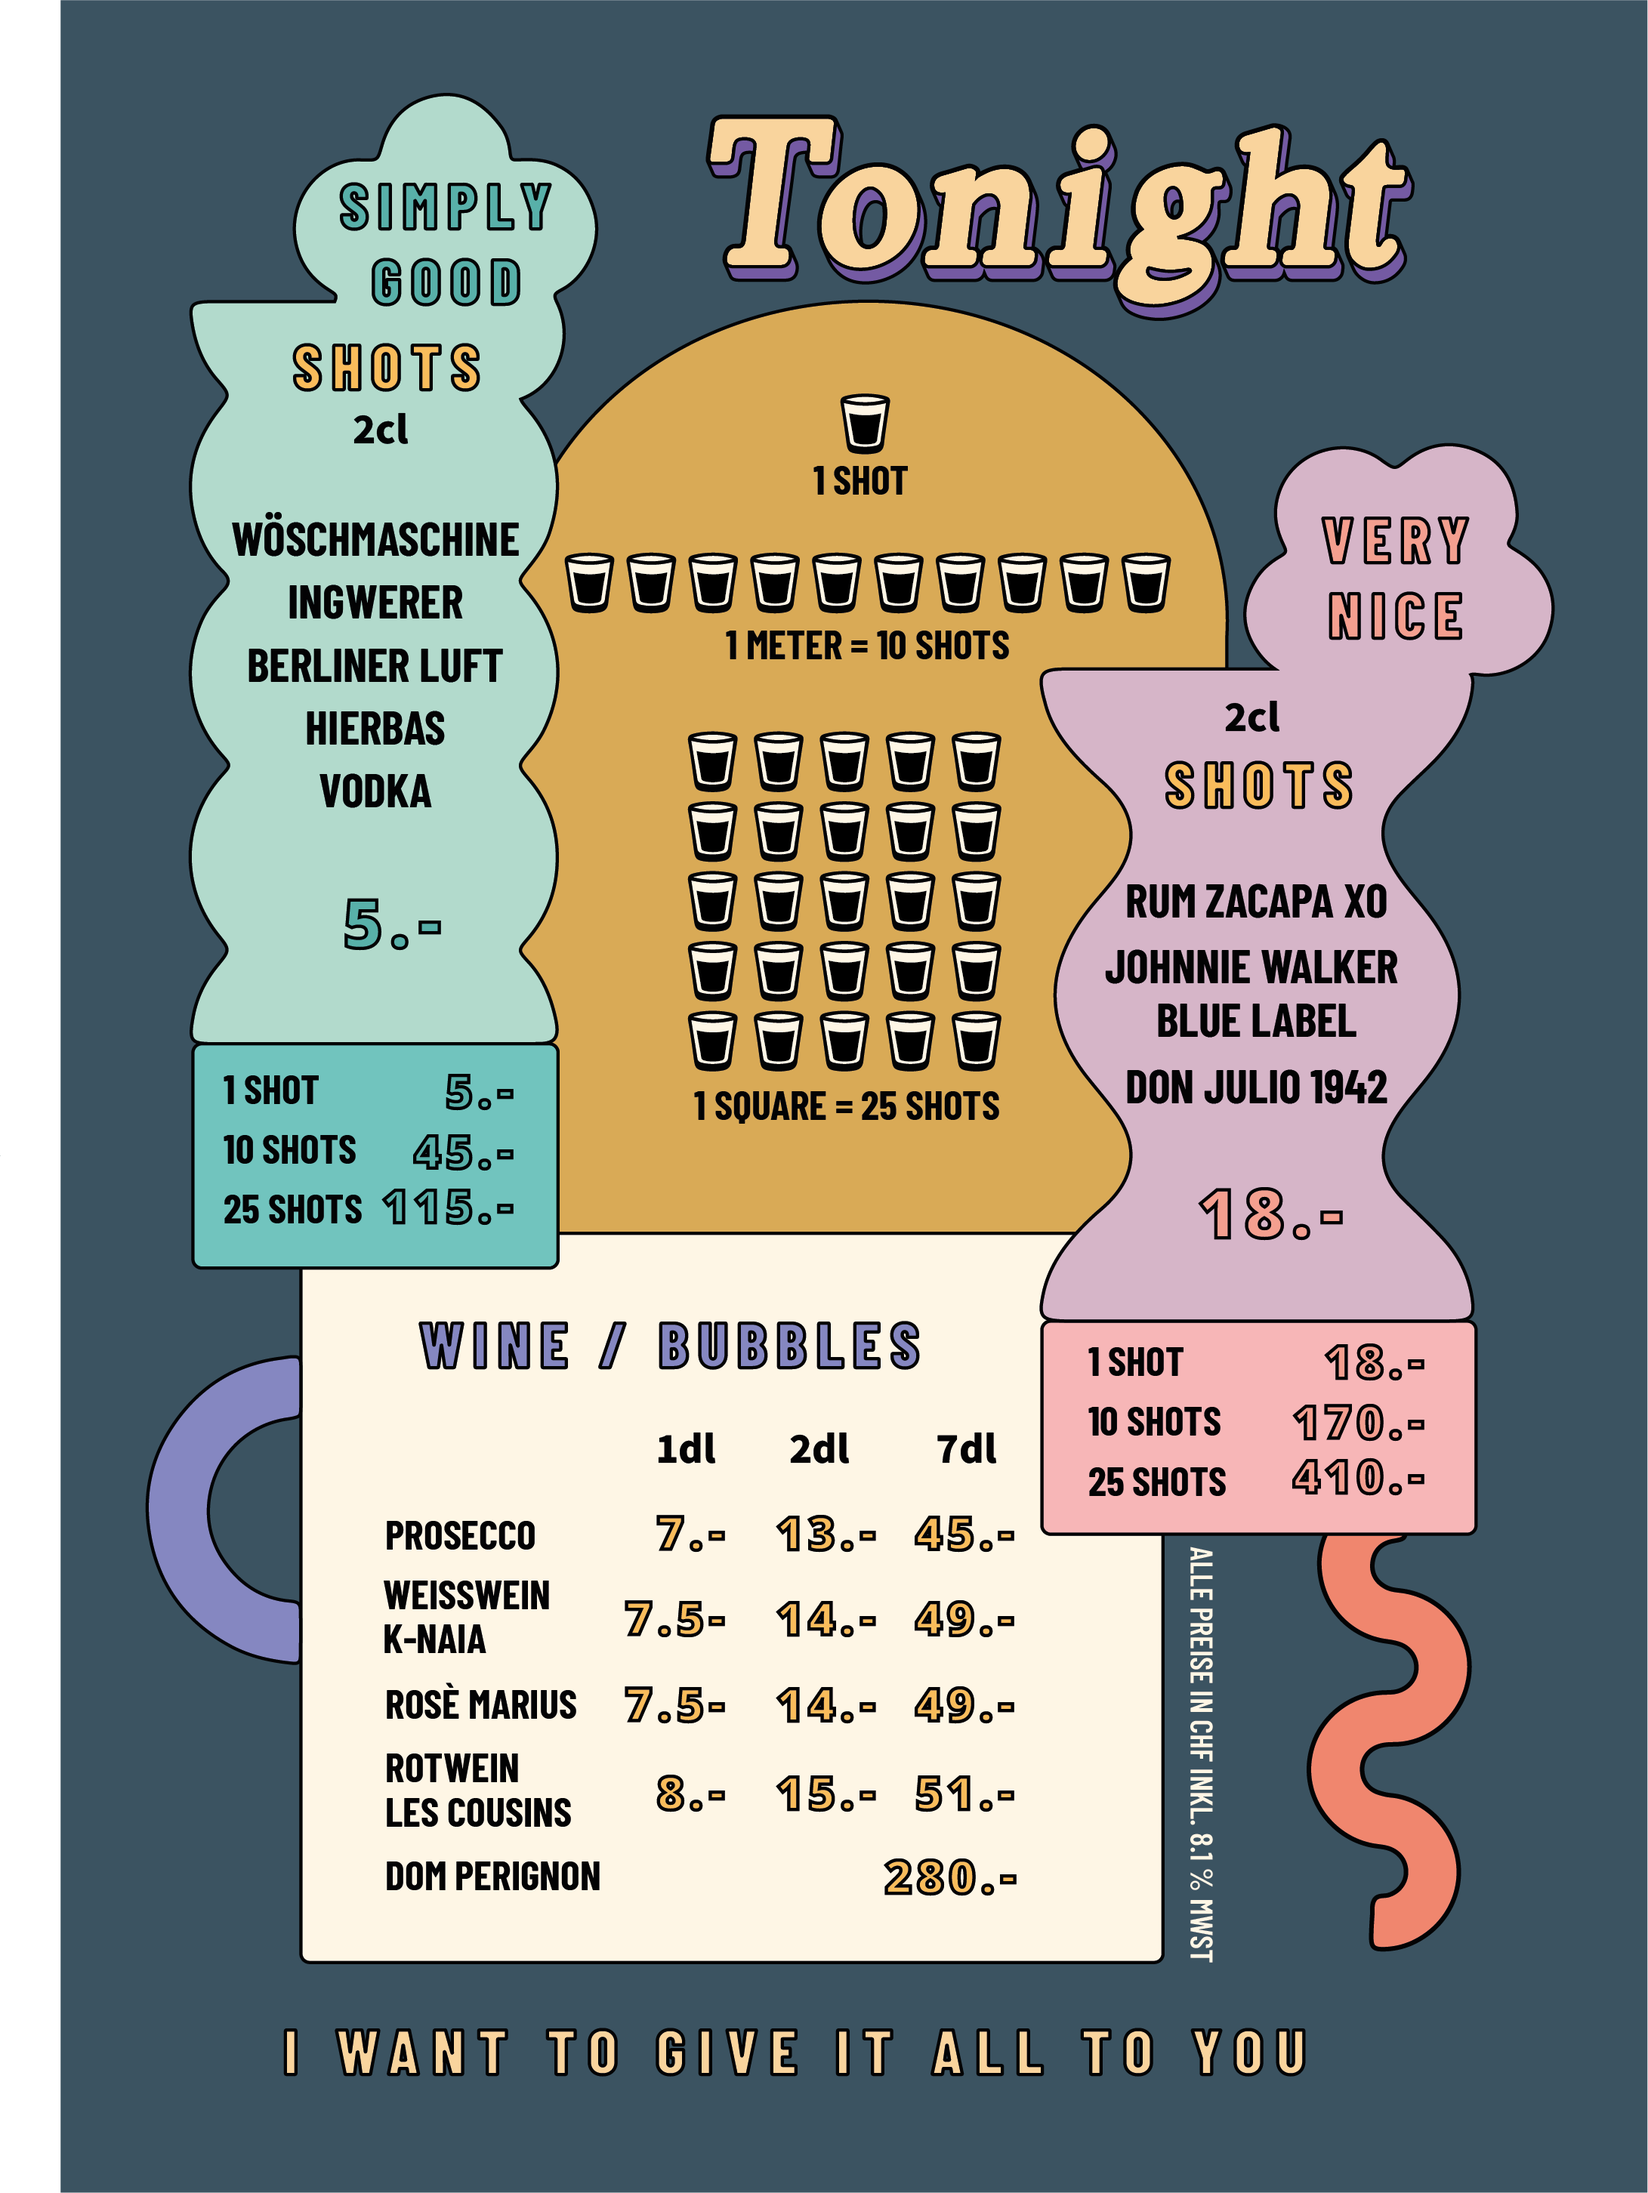
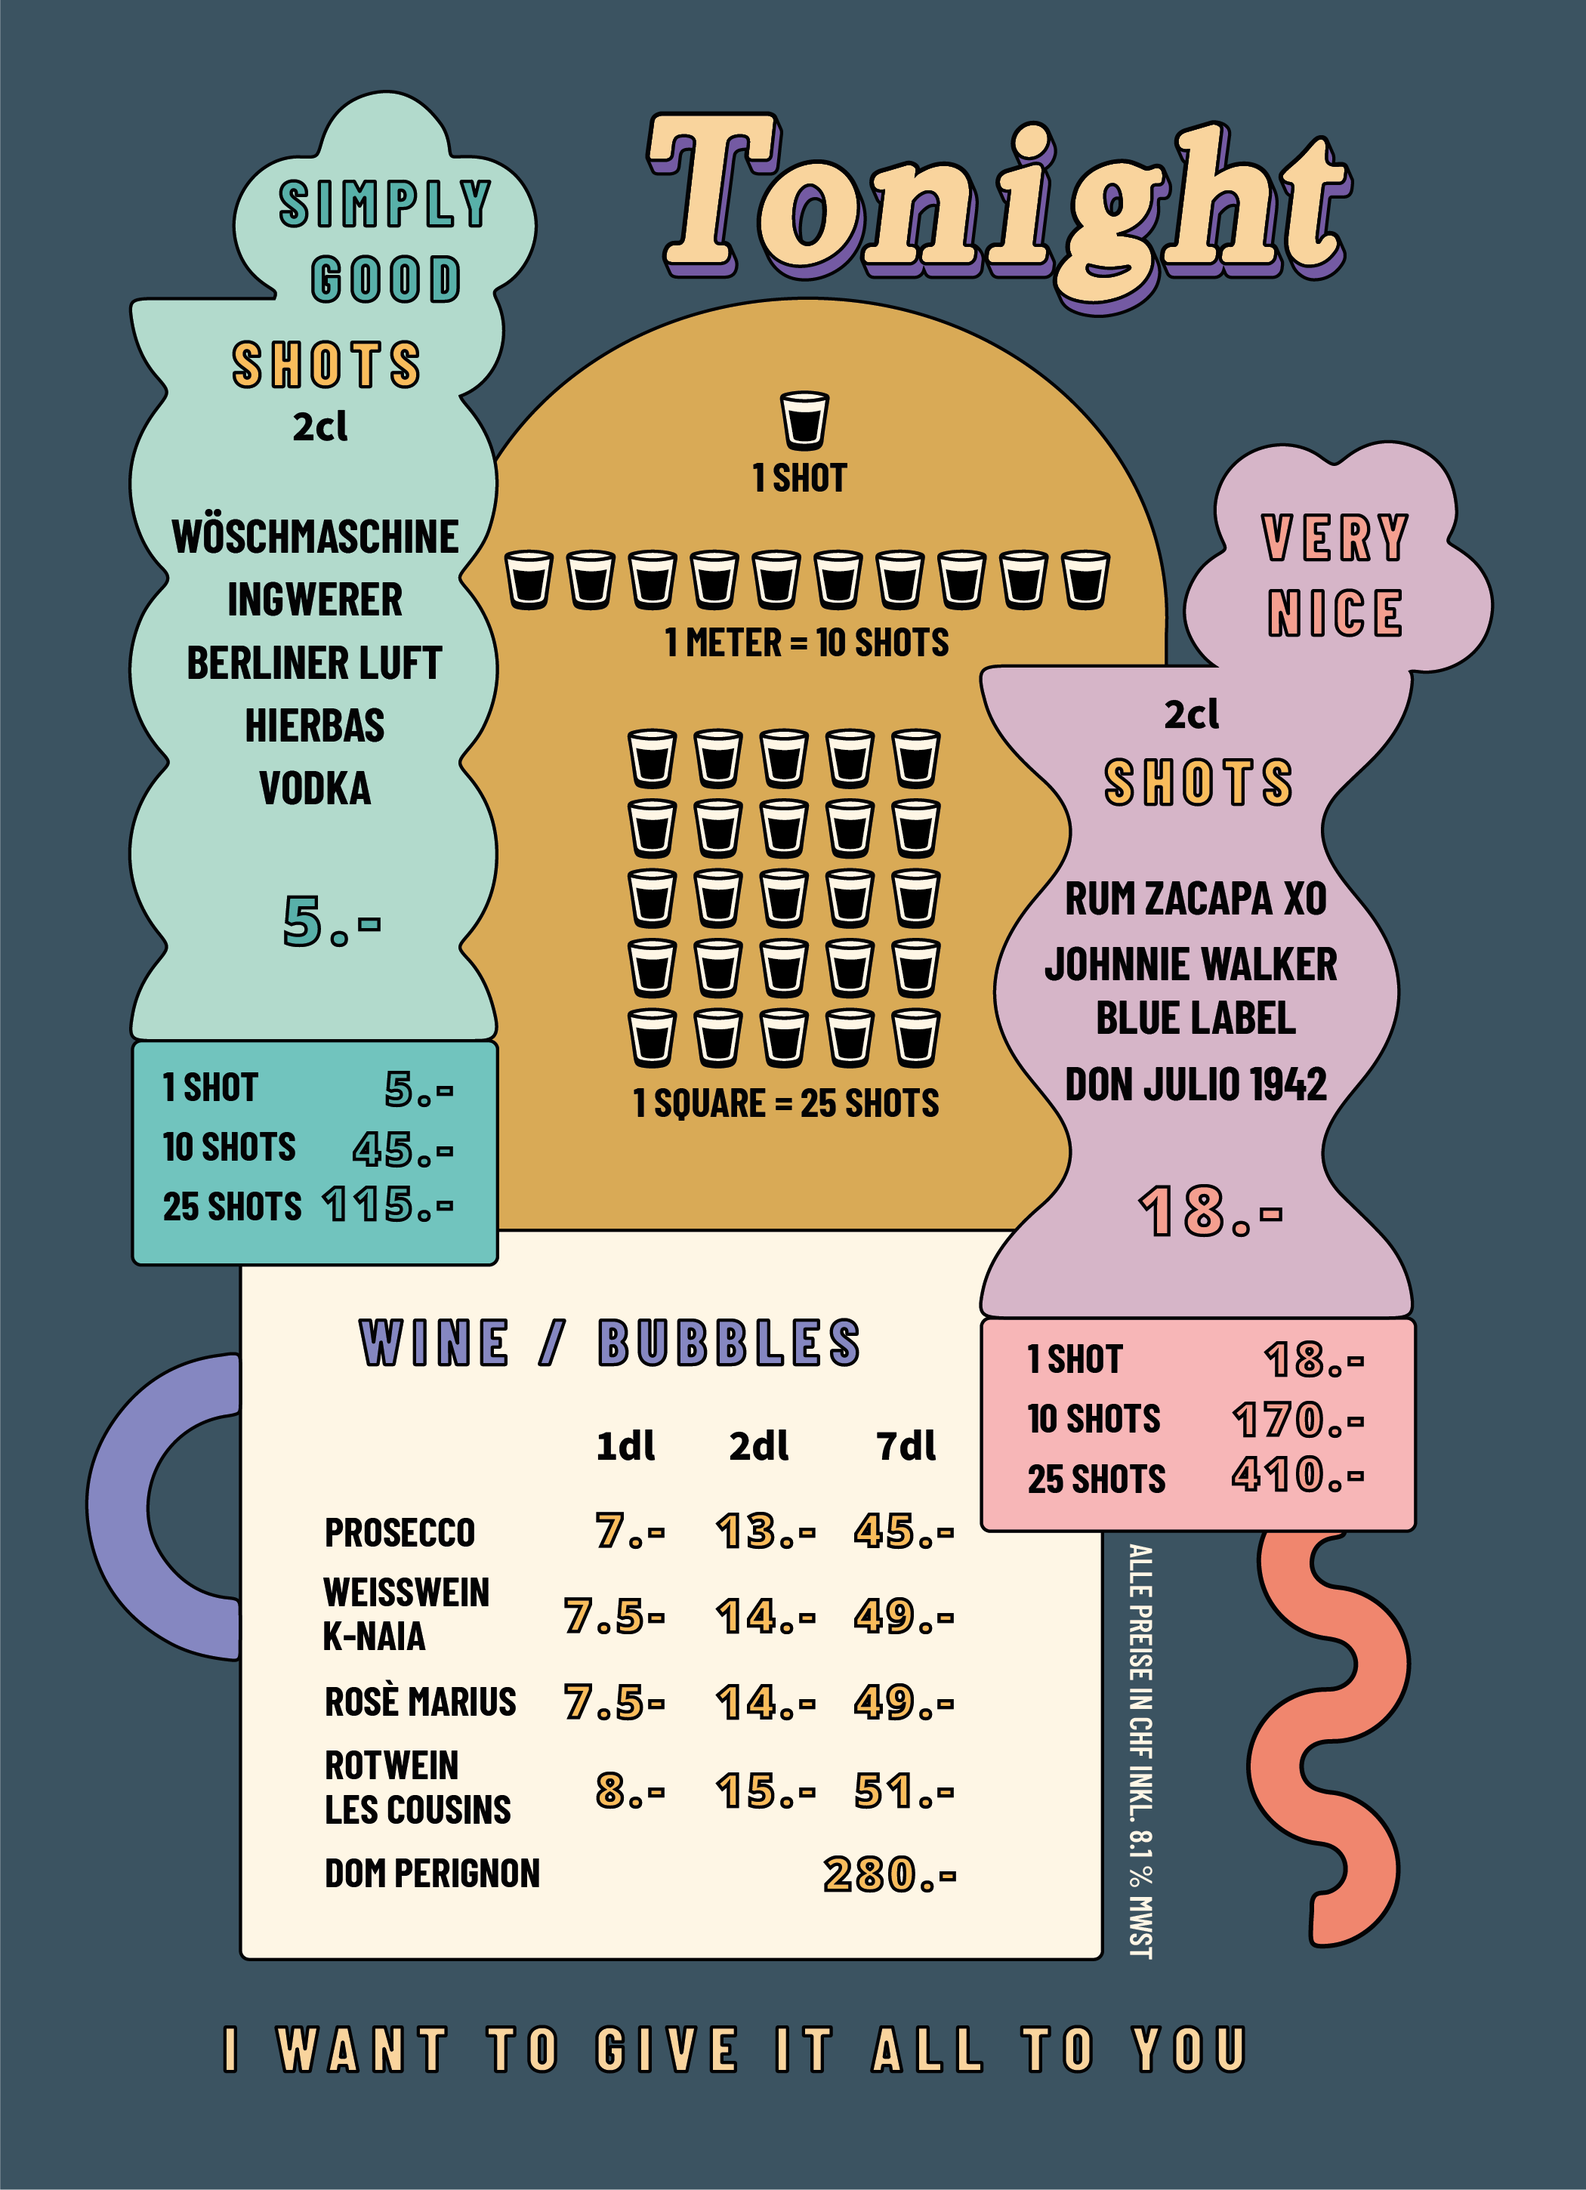
adjust menu page image sizing

diff --git a/src/app/menu/layout.tsx b/src/app/menu/layout.tsx
@@ -1,0 +1,70 @@
+import type { Metadata } from "next"
+import Script from "next/script"
+
+export const metadata: Metadata = {
+  title: "Monroe Zürich Menu – Cocktails, Drinks & Bites",
+  description:
+    "Discover the full menu at Monroe Bar Zürich: expertly crafted cocktails, refreshing drinks, and delicious bites in the heart of Kreis 4.",
+  alternates: {
+    canonical: "https://monroe.zuerich/menu",
+  },
+}
+
+export default function MenuLayout({
+  children,
+}: {
+  children: React.ReactNode
+}) {
+  return (
+    <>
+      <Script id="menu-jsonld" type="application/ld+json">
+        {JSON.stringify({
+          "@context": "https://schema.org",
+          "@type": "Menu",
+          name: "Monroe Zürich Menu",
+          hasMenuSection: [
+            {
+              "@type": "MenuSection",
+              name: "Cocktails",
+              offers: {
+                "@type": "Offer",
+                availability: "https://schema.org/InStock",
+              },
+            },
+            {
+              "@type": "MenuSection",
+              name: "Drinks",
+              offers: {
+                "@type": "Offer",
+                availability: "https://schema.org/InStock",
+              },
+            },
+            {
+              "@type": "MenuSection",
+              name: "Bites",
+              offers: {
+                "@type": "Offer",
+                availability: "https://schema.org/InStock",
+              },
+            },
+          ],
+          hasRestaurant: {
+            "@type": "BarOrPub",
+            name: "Monroe Zürich",
+            address: {
+              "@type": "PostalAddress",
+              streetAddress: "Brauerstrasse 26",
+              addressLocality: "Zürich",
+              postalCode: "8004",
+              addressCountry: "CH",
+            },
+            telephone: "+41 44 123 45 67",
+            url: "https://monroe.zuerich",
+            sameAs: ["https://www.instagram.com/monroe.zuerich/"],
+          },
+        })}
+      </Script>
+      {children}
+    </>
+  )
+}

diff --git a/src/app/menu/page.tsx b/src/app/menu/page.tsx
@@ -2,8 +2,8 @@ import Image from "next/image"
 
 export default function Home() {
   return (
-    <section className="mb-28 md:mb-0 p-10">
-      <div className="flex flex-col md:flex-row justify-center items-start gap-4 max-w-5xl mx-auto px-4">
+    <section className="mb-28 mt-14 md:mb-0 md:p-10">
+      <div className="flex flex-col md:flex-row justify-center items-start md:gap-4 max-w-5xl mx-auto md:px-4">
         <div className="w-full md:w-1/2 max-w-xl">
           <Image
             src="/docs/menu-front.png"
